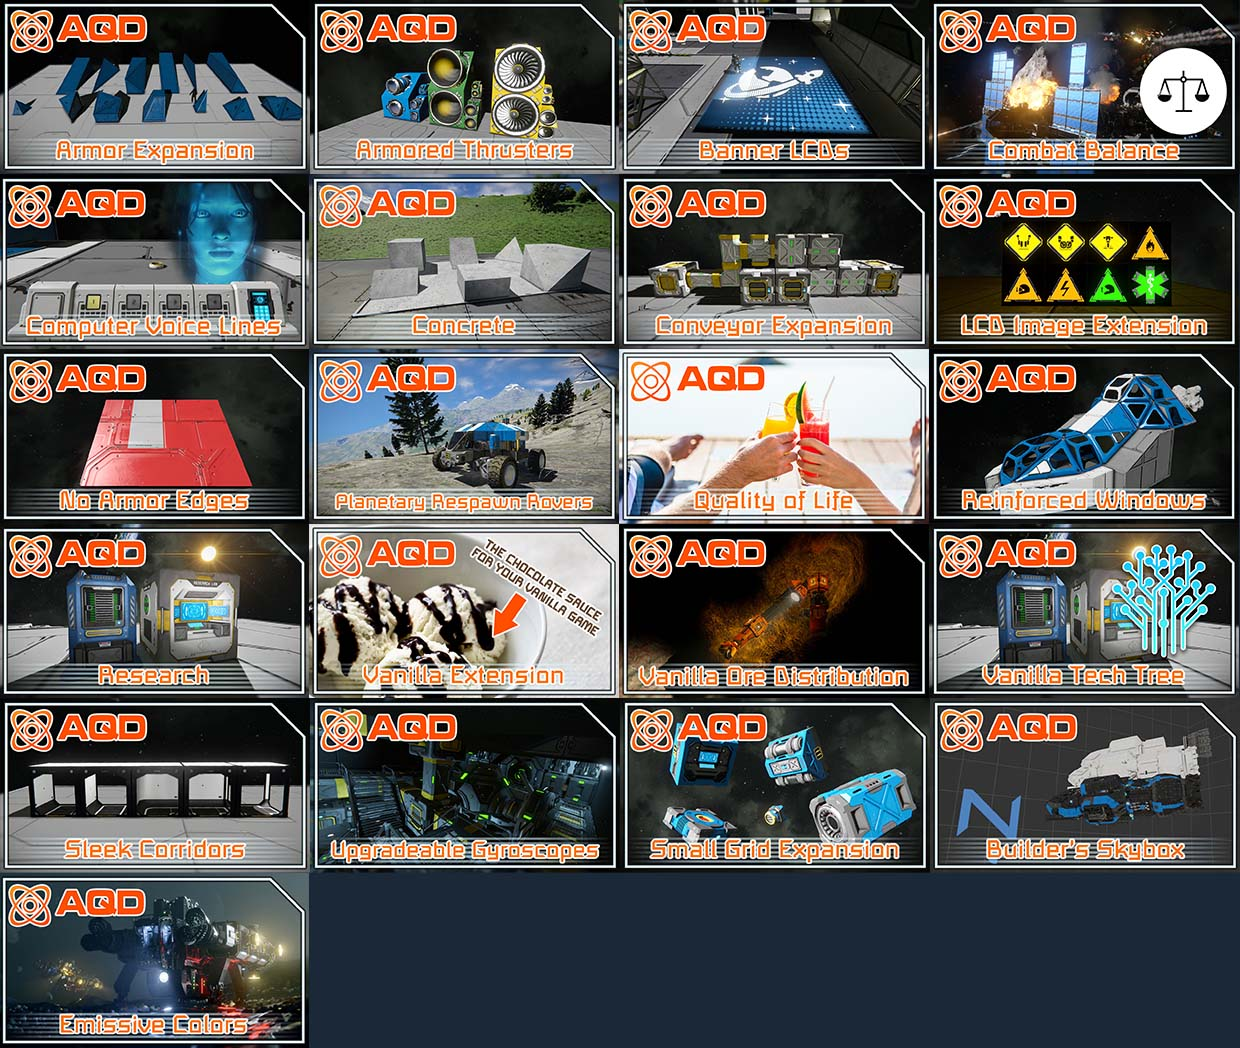
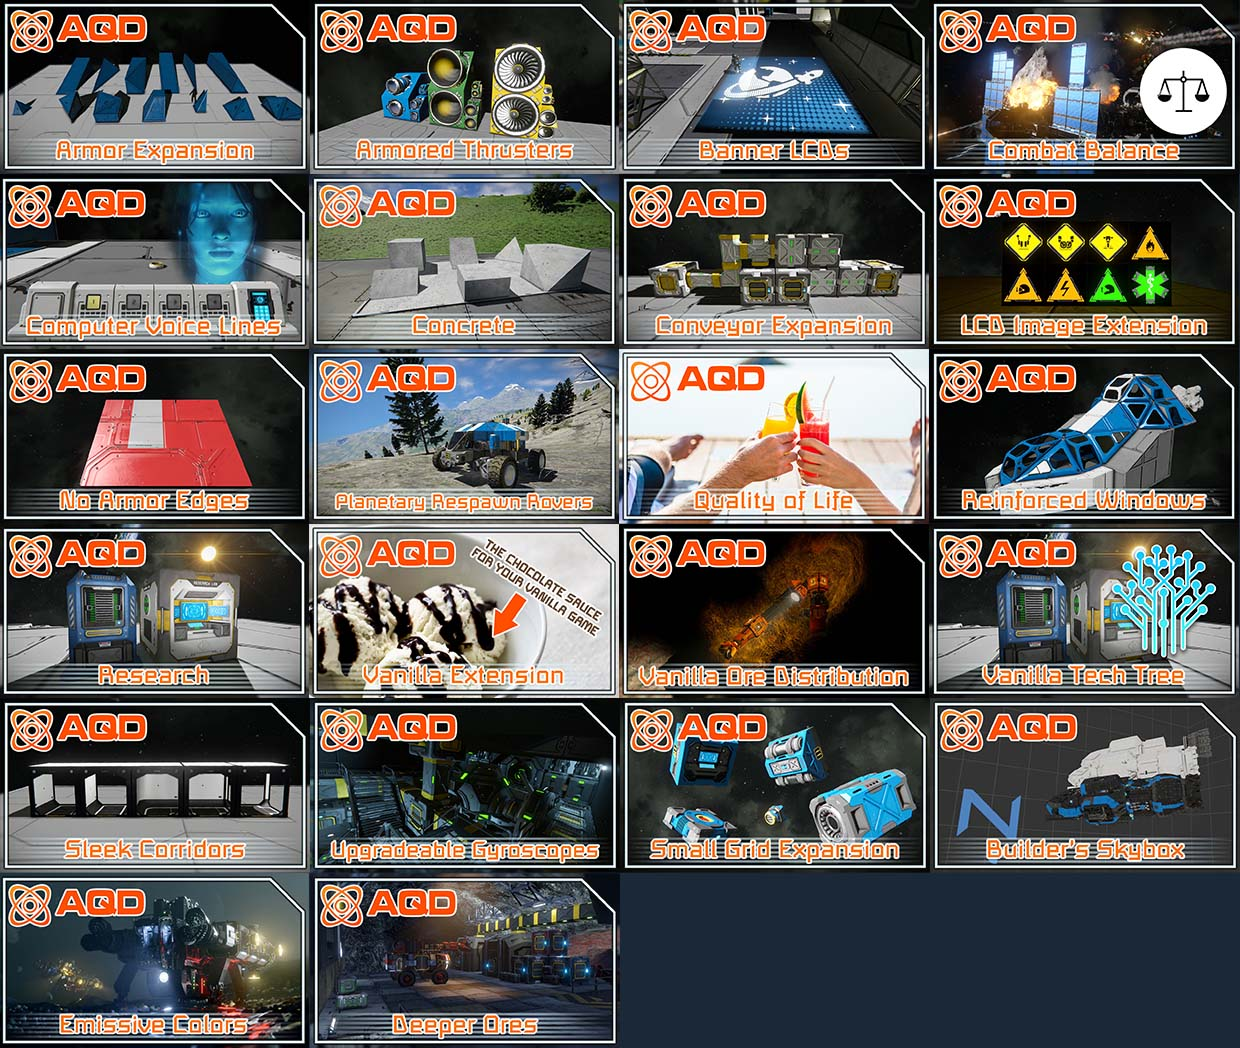
Deeper Ores 1.0 - Release version

Changed region(s): [[0.2452, 0.8244, 0.521, 1.0]]

diff --git a/AQD - Deeper Ores/Content/Data/Scripts/enenra.GenericDeeperOres/GenericDeeperOres.cs b/AQD - Deeper Ores/Content/Data/Scripts/enenra.GenericDeeperOres/GenericDeeperOres.cs
@@ -1,0 +1,73 @@
+using System;
+using System.Collections.Generic;
+using System.Linq;
+using System.Text;
+using System.Threading.Tasks;
+using Sandbox.Common;
+using Sandbox.Common.ObjectBuilders;
+using Sandbox.Common.ObjectBuilders.Definitions;
+using Sandbox.Definitions;
+using Sandbox.Game;
+using Sandbox.Game.Entities;
+using Sandbox.Game.EntityComponents;
+using Sandbox.Game.GameSystems;
+using Sandbox.ModAPI;
+using Sandbox.ModAPI.Interfaces;
+using Sandbox.ModAPI.Weapons;
+using SpaceEngineers.Game.ModAPI;
+using VRage.Game;
+using VRage.Game.Components;
+using VRage.Game.Entity;
+using VRage.Game.ModAPI;
+using VRage.ModAPI;
+using VRage.ObjectBuilders;
+using VRage.Utils;
+using VRageMath;
+
+namespace enenra.GenericDeeperOres
+{
+
+    [MySessionComponentDescriptor(MyUpdateOrder.BeforeSimulation)]
+    public class GenericDeeperOres : MySessionComponentBase
+    {
+
+        public override void LoadData()
+        {
+
+            var allPlanets = MyDefinitionManager.Static.GetPlanetsGeneratorsDefinitions();
+
+            foreach (var def in allPlanets)
+            {
+
+                var planet = def as MyPlanetGeneratorDefinition;
+                var oreList = new List<MyPlanetOreMapping>(planet.OreMappings.ToList());
+
+                for (int i = 0; i < oreList.Count; i++) {
+                    var oreMap = planet.OreMappings[i];
+
+                    if (oreMap.Type.Contains("Ice_01") == true) { oreMap.Start = 20; oreMap.Depth = 20; }
+
+                    if (oreMap.Type.Contains("Iron_02") == true) { oreMap.Start = 50; oreMap.Depth = 25; }
+                    if (oreMap.Type.Contains("Nickel_01") == true) { oreMap.Start = 50; oreMap.Depth = 15; }
+                    if (oreMap.Type.Contains("Silicon_01") == true) { oreMap.Start = 50; oreMap.Depth = 20; }
+
+                    if (oreMap.Type.Contains("Cobalt_01") == true) { oreMap.Start = 100; oreMap.Depth = 15; }
+                    if (oreMap.Type.Contains("Magnesium_01") == true) { oreMap.Start = 200; oreMap.Depth = 15; }
+
+                    if (oreMap.Type.Contains("Silver_01") == true) { oreMap.Start = 300; oreMap.Depth = 10; }
+                    if (oreMap.Type.Contains("Gold_01") == true) { oreMap.Start = 300; oreMap.Depth = 10; }
+
+                    if (oreMap.Type.Contains("Platinum_01") == true) { oreMap.Start = 400; oreMap.Depth = 10; }
+                    if (oreMap.Type.Contains("Uraninite_01") == true) { oreMap.Start = 400; oreMap.Depth = 10; }
+                }
+
+                planet.OreMappings = oreList.ToArray();
+
+            }
+
+        }
+
+
+    }
+
+}

diff --git a/AQD - Deeper Ores/Content/description.md b/AQD - Deeper Ores/Content/description.md
@@ -1,0 +1,33 @@
+[img]https://i.imgur.com/fVVaDCS.gif[/img]
+
+[h1]Current version: [b]1.0[/b][/h1]
+[i]Please refer to the [url=https://steamcommunity.com/sharedfiles/filedetails/changelog/]changelog[/url] for patch notes.[/i]
+
+[img]https://i.imgur.com/cdhLXnQ.png[/img]
+[quote]
+This mod increases the size of ore depots on planets and moons but also moves them further down into the surface. It works with all planets, modded too, and with all vanilla ores. The goal is to encourage players to build proper mining outposts as resources in one location last longer.
+[/quote]
+
+[h1][b]AQD - A Quantum of Depth[/b] is a project of mine, encompassing multiple small and larger mods aimed at improving the gameplay experience and eventually overhauling larger parts of the game:[/h1]
+
+[url=https://steamcommunity.com/sharedfiles/filedetails/?id=1808547374][img]https://raw.githubusercontent.com/enenra/aqdse/master/collection.jpg[/img][/url]
+
+[img]https://i.imgur.com/5nbiNLV.png[/img]
+
+[h1]Deeper ore veins on all planets[/h1]
+All ore veins are moved deeper into the planets. How deep depends on the type of ore - "starter" ores like iron, silicon and nickel are located 50m below ground. Cobalt and magnesium can be found 100 and 200m below ground respectively. Silver and gold are located at 300m, platinum and uranium at 400m below ground. The size of the veins varies depending on the ore as well, generally becoming smaller, the more "rare" an ore is (but at minimum still larger than vanilla deposits).
+
+[url=https://discord.gg/QtyCsBr][img]https://i.imgur.com/l8exfyn.png[/img][/url]
+[url=https://github.com/enenra/aqdse][img]https://i.imgur.com/T7AtPhP.png[/img][/url]
+
+[img]https://i.imgur.com/7Yen2BR.png[/img]
+[list]
+[*]This mod technically works with [url=https://steamcommunity.com/sharedfiles/filedetails/?id=1845977557]AQD - Vanilla Ore Distribution[/url], but as they both do similar things, they will overwrite each others settings.
+[*]I would recommend using either a mod increasing the ore detector range or the [url=https://steamcommunity.com/sharedfiles/filedetails/?id=1978894018][VSI] Ore Deposit Scanner[/url] by Darkmist to make identifying the content of an ore spot easier.
+[/list]
+
+[img]https://i.imgur.com/uUOBTpF.png[/img]
+[list]
+[*][b]Ghost722nd[/b] - Maker of the [url=https://steamcommunity.com/sharedfiles/filedetails/?id=1540170706]original Deep Ores mod[/url].
+[*][b]Meridius_IX / Lucas[/b] - For writing the base script, with which the ore remapping is implemented.[/url]
+[/list]

diff --git a/AQD - Deeper Ores/Content/patch_notes.md b/AQD - Deeper Ores/Content/patch_notes.md
@@ -1,0 +1,1 @@
+[h1]Initial Release 1.0[/h1]
